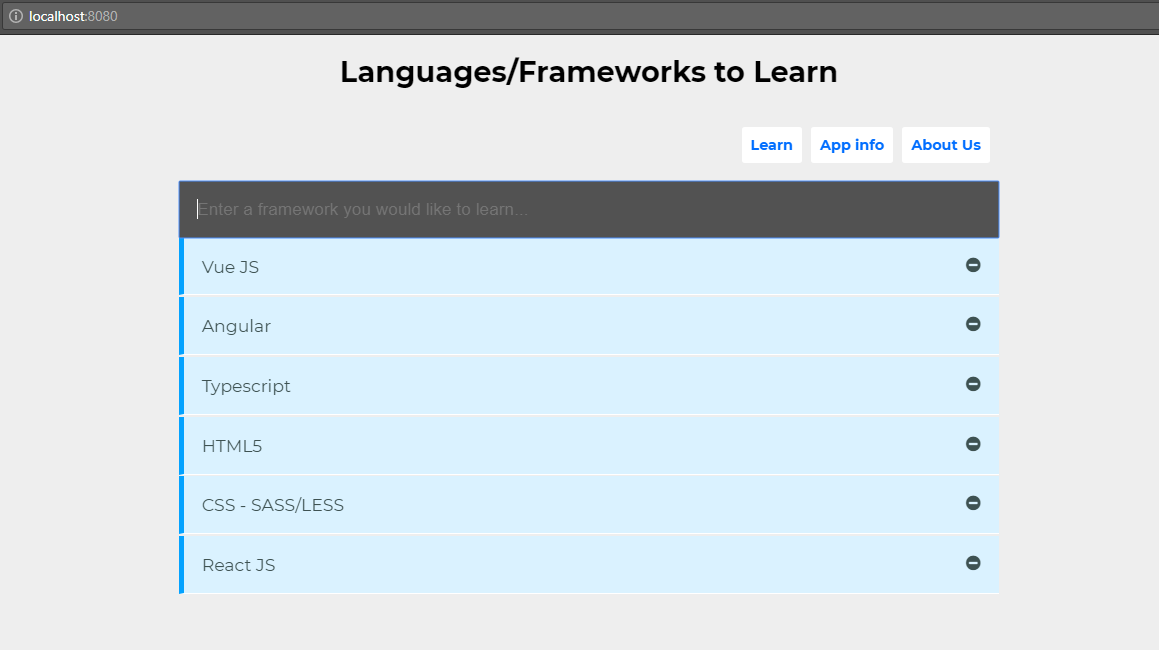
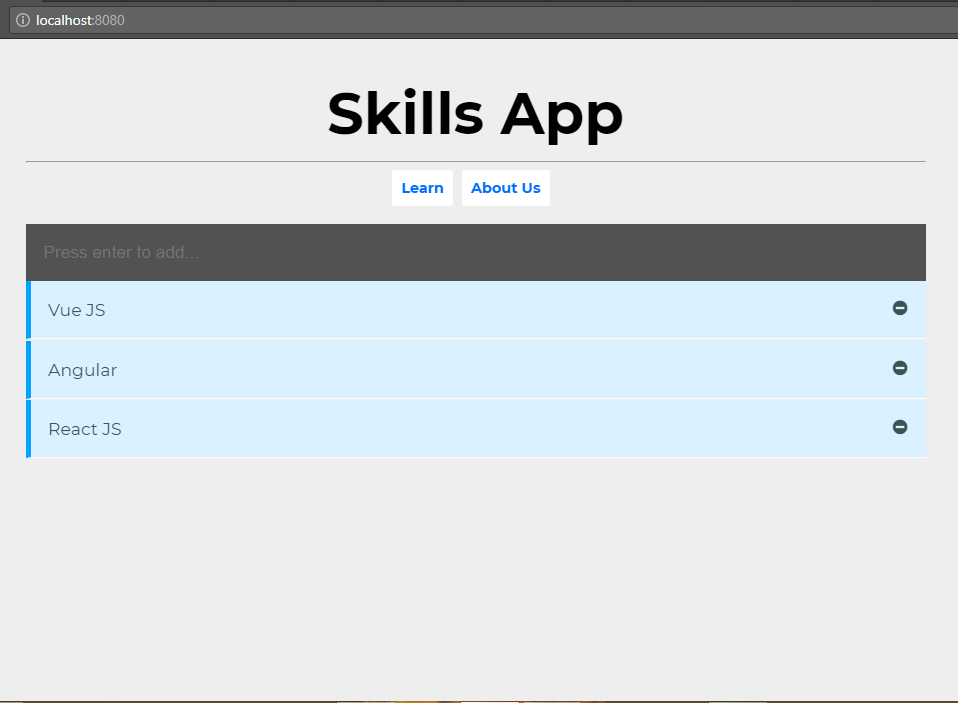
Updated UI

diff --git a/src/App.vue b/src/App.vue
@@ -1,13 +1,13 @@
 <template>
   <div id="app">
     <div class="container">
-      <h1 class="alignCenter">Learn - Programming Languages/Frameworks</h1>
+      <h1 class="alignCenter">Skills App</h1>        
+      <hr />
       <nav>
-        <router-link to="/aboutus/Mohammed">About Us</router-link>
-        <router-link to="/aboutus">App info</router-link>
         <router-link to="/">Learn</router-link>
-      </nav>      
-      <br />
+        <router-link to="/aboutus/Mohammed">About Us</router-link>
+        <!-- <router-link to="/aboutus">App info</router-link> -->
+      </nav>
       <br />
       <router-view :key="$route.fullPath"></router-view>
     </div>
@@ -43,10 +43,12 @@ html {
   height: 100%;
 }
 #app {
-  width: 60%;
+  width: 80%;
+  margin: 0 auto;
 }
 nav {
-  padding: 20px 0;
+  padding: 10px 0;
+  text-align: center;
 }
 
 nav a {
@@ -57,9 +59,10 @@ nav a {
   color: rgb(0, 110, 255);
   font-weight: bold;
   margin-right: 10px;
-  float: right;
 }
 h1.alignCenter {
   text-align: center;
+  font-size: 4em;
+  margin-bottom: 15px;
 }
 </style>

diff --git a/src/components/Learn.vue b/src/components/Learn.vue
@@ -1,7 +1,7 @@
 <template>
     <div class="skills">
         <form @submit.prevent="addTech">
-          <input v-validate="'min:5'" placeholder="Enter framework you would like to learn..." type="text" v-model="tech" name="tech">        
+          <input v-validate="'min:5'" maxlength="16" placeholder="Press enter to add..." type="text" v-model="tech" name="tech">        
           <transition name="alert-in" enter-active-class="animated flipInX" leave-active-class="animated flipOutX">
             <p class="alert" v-if="errors.has('tech')">
               Please enter a minimum of 5 characters
